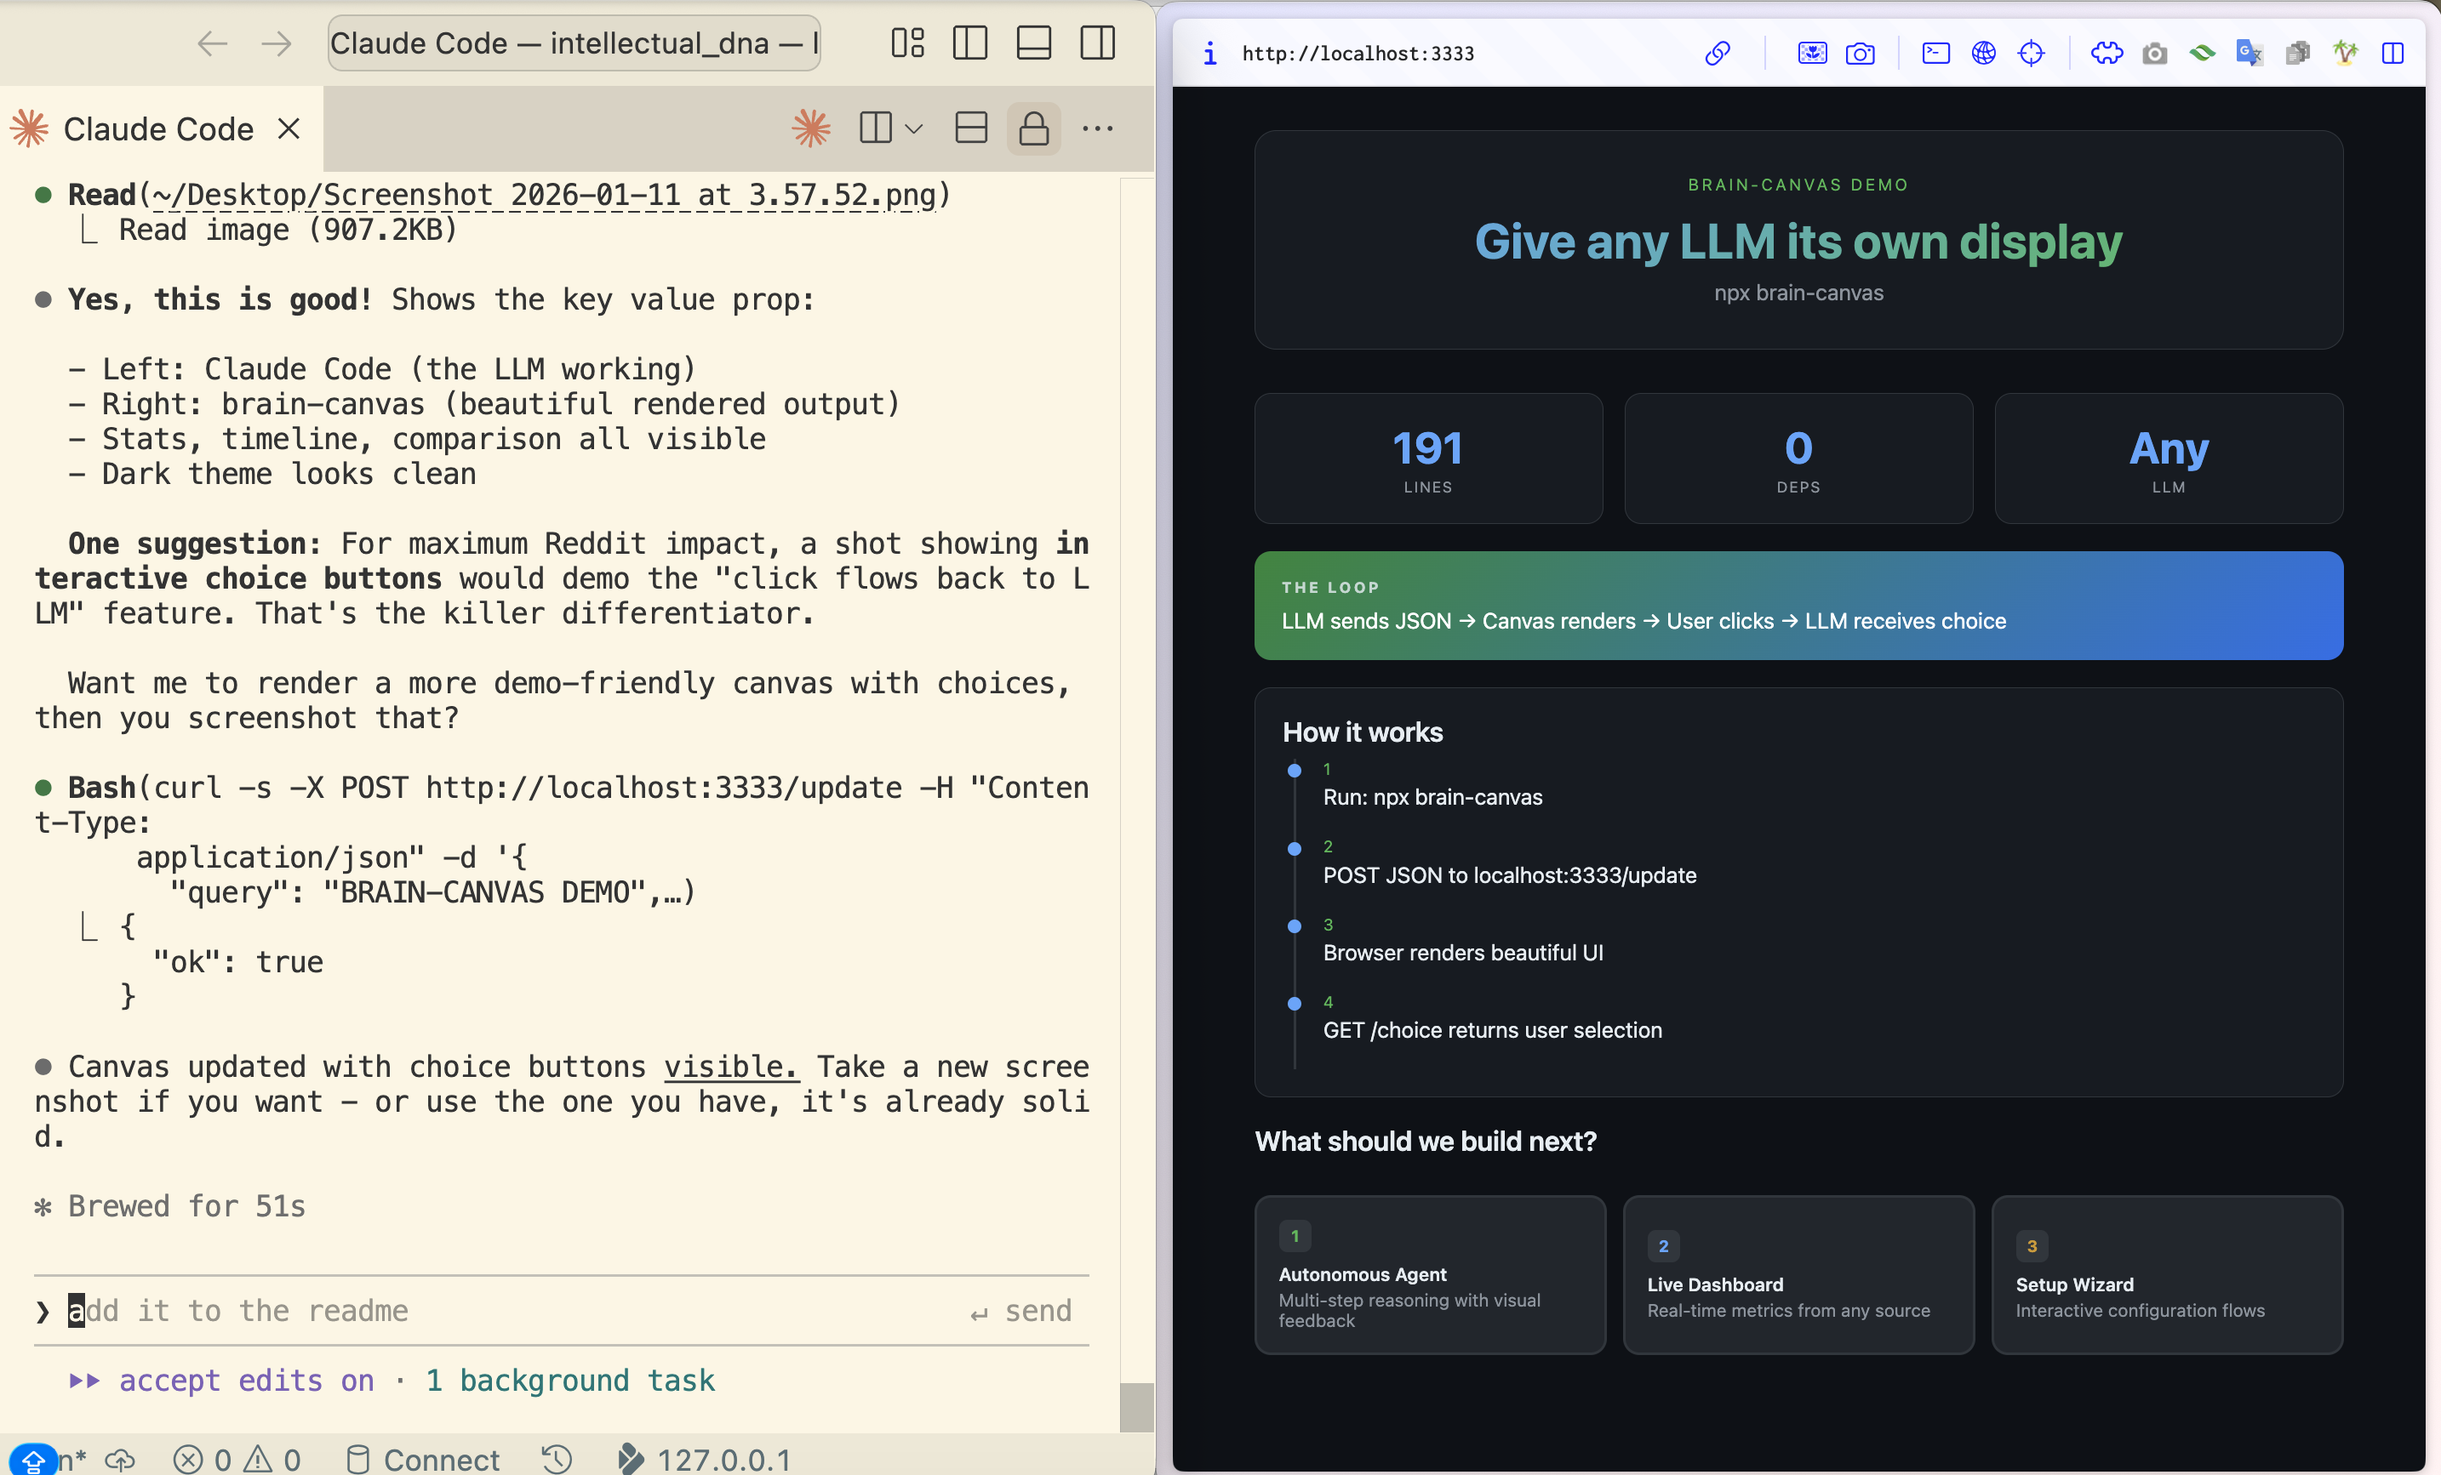
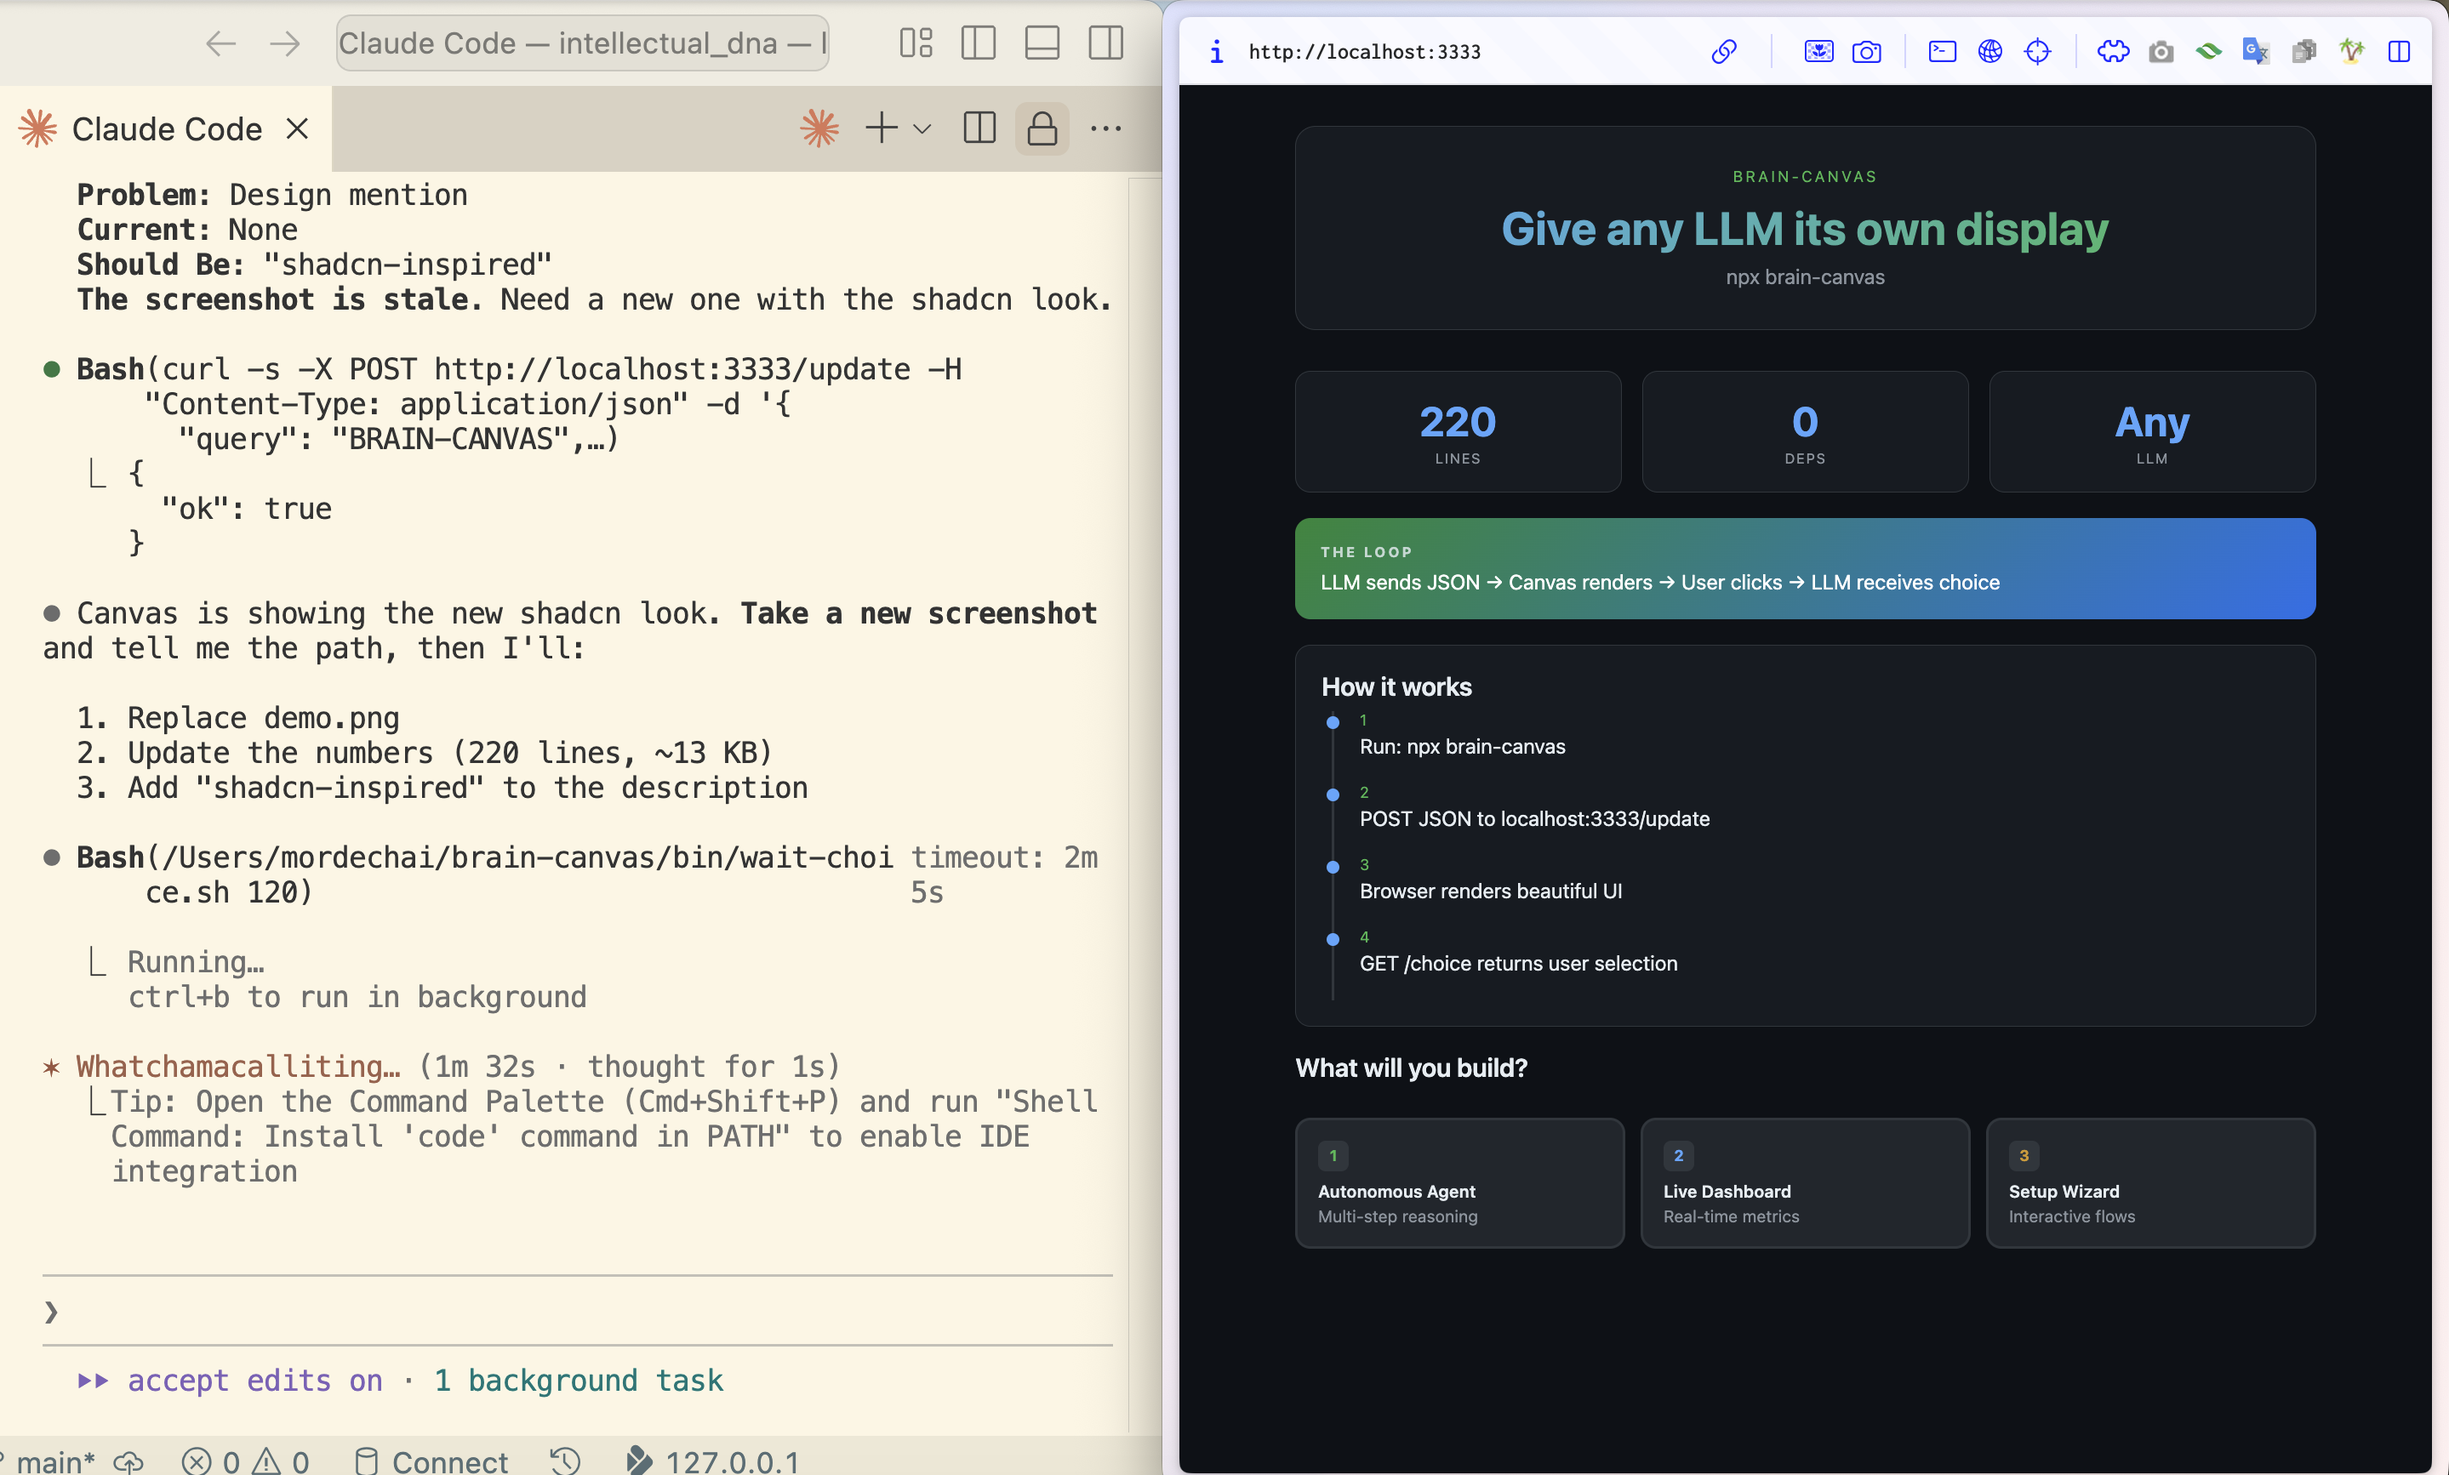
Update README: new shadcn screenshot, correct numbers, add design mention

diff --git a/README.md b/README.md
@@ -12,15 +12,17 @@ npx brain-canvas
 
 | What | Count |
 |------|-------|
-| Lines of code | 191 |
+| Lines of code | 220 |
 | Dependencies | 0 |
-| Package size | 6.9 KB |
+| Package size | 13 KB |
 | Section types | 10 |
 | Time to install | 3 seconds |
 
 ## What is this?
 
 A live HTML canvas that any LLM can control. Send JSON, get beautiful interactive UI.
+
+**Design:** shadcn-inspired dark theme with CSS custom properties, subtle shadows, and buttery transitions.
 
 **The loop:**
 ```
